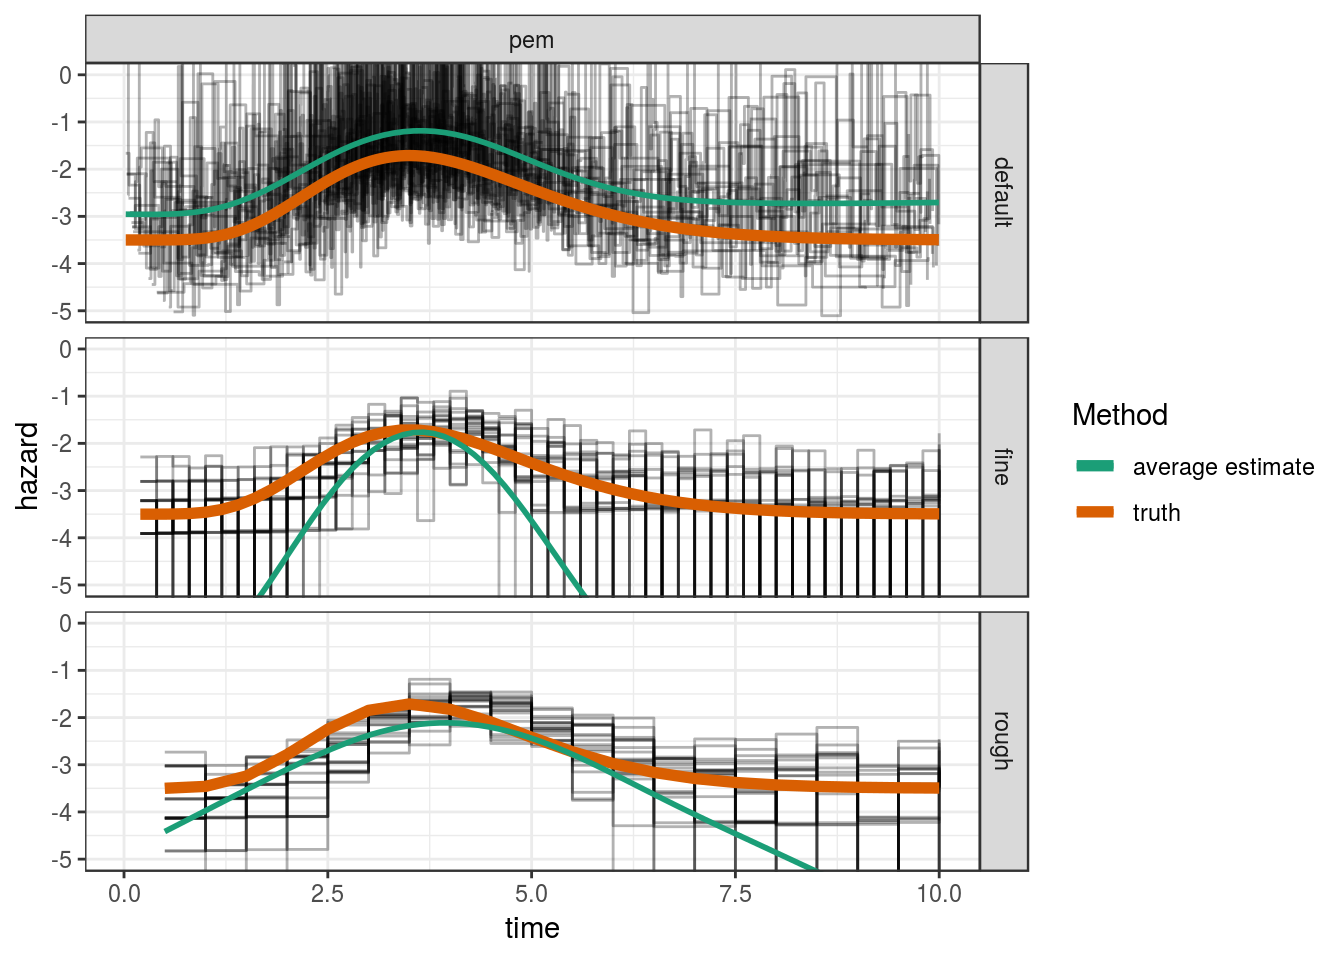
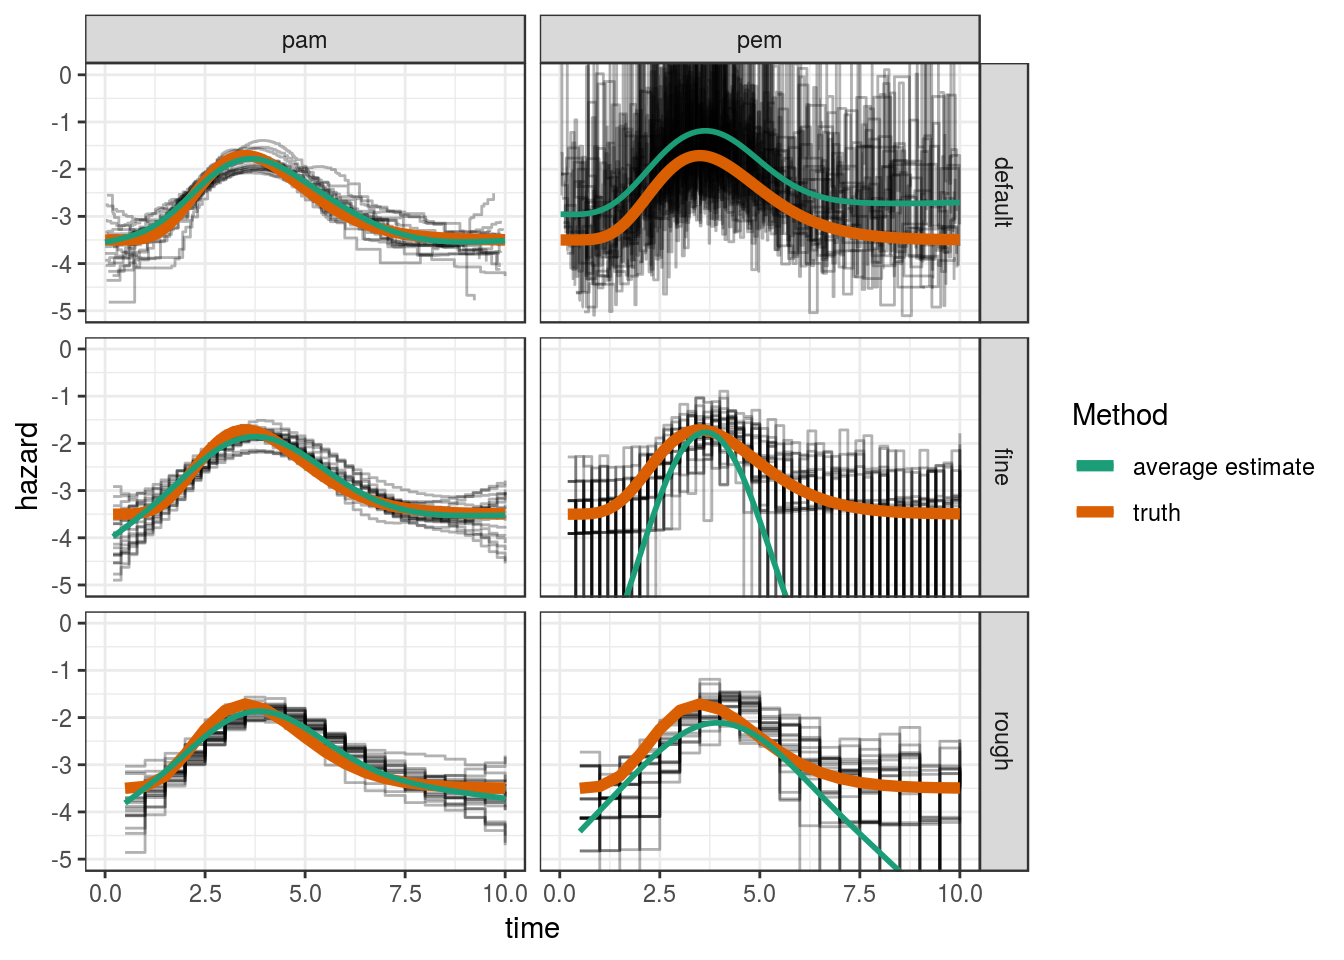
Build site.

Changed region(s): [[0.0625, 0.0, 0.7188, 0.9375], [0.2812, 0.9062, 0.3125, 0.9375], [0.0625, 0.9062, 0.0938, 0.9375]]

diff --git a/docs/pem_vs_pam.html b/docs/pem_vs_pam.html
@@ -187,6 +187,9 @@ $(document).ready(function () {
 <li>
   <a href="license.html">License</a>
 </li>
+<li>
+  <a href="pem_vs_pam.html">Articles</a>
+</li>
       </ul>
       <ul class="nav navbar-nav navbar-right">
         <li>
@@ -216,7 +219,7 @@ div.section {
 </div>
 
 
-<p><strong>Last updated:</strong> 2018-05-22</p>
+<p><strong>Last updated:</strong> 2018-05-23</p>
 <strong>workflowr checks:</strong> <small>(Click a bullet for more information)</small>
 <ul>
 <li>
@@ -245,11 +248,10 @@ div.section {
 </li>
 <li>
 <details>
-<p><summary> <strong style="color:blue;">✔</strong> <strong>Repository version:</strong> 870faf5 </summary></p>
+<p><summary> <strong style="color:blue;">✔</strong> <strong>Repository version:</strong> 4ddf7b2 </summary></p>
 Great! You are using Git for version control. Tracking code development and connecting the code version to the results is critical for reproducibility. The version displayed above was the version of the Git repository at the time these results were generated. <br><br> Note that you need to be careful to ensure that all relevant files for the analysis have been committed to Git prior to generating the results (you can use <code>wflow_publish</code> or <code>wflow_git_commit</code>). workflowr only checks the R Markdown file, but you know if there are other scripts or data files that it depends on. Below is the status of the Git repository when the results were generated:
 <pre><code>
 Ignored files:
-    Ignored:    analysis/ll_selection_cache/
     Ignored:    analysis/pem_vs_pam_cache/
 
 Untracked files:
@@ -260,6 +262,7 @@ Untracked files:
 Unstaged changes:
     Modified:   analysis/_site.yml
     Modified:   analysis/about.Rmd
+    Modified:   analysis/index.Rmd
 
 </code></pre>
 Note that any generated files, e.g. HTML, png, CSS, etc., are not included in this status report because it is ok for generated content to have uncommitted changes.
@@ -290,6 +293,40 @@ Message
 </tr>
 </thead>
 <tbody>
+<tr>
+<td style="text-align:left;">
+Rmd
+</td>
+<td style="text-align:left;">
+4ddf7b2
+</td>
+<td style="text-align:left;">
+adibender
+</td>
+<td style="text-align:left;">
+2018-05-23
+</td>
+<td style="text-align:left;">
+wflow_publish(“analysis/pem_vs_pam.Rmd”)
+</td>
+</tr>
+<tr>
+<td style="text-align:left;">
+html
+</td>
+<td style="text-align:left;">
+da628e9
+</td>
+<td style="text-align:left;">
+adibender
+</td>
+<td style="text-align:left;">
+2018-05-22
+</td>
+<td style="text-align:left;">
+Build site.
+</td>
+</tr>
 <tr>
 <td style="text-align:left;">
 Rmd
@@ -417,6 +454,24 @@ wflow_publish(c(“analysis/pem_vs_pam.Rmd”))
 <pre class="r"><code>library(ggplot2)
 theme_set(theme_bw())
 library(batchtools)</code></pre>
+<div id="motivation" class="section level2">
+<h2>Motivation</h2>
+<p>This is a light-weight simulation study to investigate how sensitive the different approaches (PEM vs. PAM) to the estimation of the baseline-hazard function are to the placement of the interval split points.</p>
+</div>
+<div id="setup" class="section level2">
+<h2>Setup</h2>
+<p>The setup is as follows:</p>
+<ul>
+<li><p><span class="math inline">\(n=250\)</span> survival times are simulated from a distribution with log-hazard <span class="math inline">\(-3.5 + f(8,2)*6\)</span>, where <span class="math inline">\(f(8,2)\)</span> is the density function of the Gamma distribution with respective parameters.</p></li>
+<li><p>The baseline hazard is estimated by a PEM and PAM respectively</p></li>
+<li><p>Three different settings are used for the interval split point definition</p>
+<ol style="list-style-type: decimal">
+<li>“default”: Unique event times from each simulated data set is used</li>
+<li>“fine”: A fine, equidistant grid with interval lengths <span class="math inline">\(0.2\)</span></li>
+<li>“rough”: A rough, equidistant grid with interval lengths <span class="math inline">\(0.5\)</span></li>
+</ol></li>
+<li><p>For each setting, 20 replications are run</p></li>
+</ul>
 <p>Function for data simulation (using <code>pammtools::sim_pexp</code>):</p>
 <pre class="r"><code>## simulation function
 sim_wrapper &lt;- function(data, job, n = 250, time_grid = seq(0, 10, by = 0.05)) {
@@ -457,7 +512,7 @@ pam_wrapper &lt;- function(data, job, instance,
     form     &lt;- ped_status ~ interval
     time_var &lt;- &quot;interval&quot;
   } else {
-    form     &lt;- ped_status ~ s(tend, bs = bs,k = k)
+    form     &lt;- ped_status ~ s(tend, bs = bs, k = 10)
     time_var &lt;- &quot;tend&quot;
   }
 
@@ -469,6 +524,9 @@ pam_wrapper &lt;- function(data, job, instance,
     mutate(truth = -3.5 + dgamma(tend, 8, 2) * 6)
 
 }</code></pre>
+</div>
+<div id="setup-simulation-registry" class="section level2">
+<h2>Setup simulation registry</h2>
 <p>Setup simulation using <code>batchtools</code>:</p>
 <pre class="r"><code>if(!checkmate::test_directory_exists(&quot;output/sim-pem-vs-pam-registry&quot;)) {
   reg &lt;- makeExperimentRegistry(&quot;output/sim-pem-vs-pam-registry&quot;,
@@ -488,142 +546,20 @@ pam_wrapper &lt;- function(data, job, instance,
 }</code></pre>
 <pre><code>Warning: replacing previous import &#39;dplyr::vars&#39; by &#39;ggplot2::vars&#39; when
 loading &#39;pammtools&#39;</code></pre>
-<pre><code>[1] FALSE</code></pre>
-<p>Evaluate Simulation:</p>
-<pre class="r"><code>reg     &lt;- loadRegistry(&quot;output/sim-pem-vs-pam-registry&quot;, writeable = TRUE)</code></pre>
-<pre><code>Warning: replacing previous import &#39;dplyr::vars&#39; by &#39;ggplot2::vars&#39; when
-loading &#39;pammtools&#39;</code></pre>
-<pre class="r"><code>ids_pam &lt;- findExperiments(prob.name=&quot;pem-vs-pam&quot;, algo.name=&quot;pem-vs-pam&quot;)
+<pre><code>[1] TRUE</code></pre>
+</div>
+<div id="evaluate-simulation" class="section level2">
+<h2>Evaluate Simulation</h2>
+<pre class="r"><code>reg     &lt;- loadRegistry(&quot;output/sim-pem-vs-pam-registry&quot;, writeable = TRUE)
+ids_pam &lt;- findExperiments(prob.name=&quot;pem-vs-pam&quot;, algo.name=&quot;pem-vs-pam&quot;)
 pars    &lt;- unwrap(getJobPars()) %&gt;% as_tibble()
 res     &lt;- reduceResultsDataTable(ids=findDone(ids_pam)) %&gt;%
   as_tibble() %&gt;%
   tidyr::unnest() %&gt;%
   left_join(pars) %&gt;%
-  mutate(cut = case_when(is.na(cut) ~ &quot;default&quot;, TRUE ~ cut))</code></pre>
-<pre><code>Warning in bind_rows_(x, .id): Unequal factor levels: coercing to character</code></pre>
-<pre><code>Warning in bind_rows_(x, .id): binding character and factor vector,
-coercing into character vector
+  mutate(cut = case_when(is.na(cut) ~ &quot;default&quot;, TRUE ~ cut))
 
-Warning in bind_rows_(x, .id): binding character and factor vector,
-coercing into character vector
-
-Warning in bind_rows_(x, .id): binding character and factor vector,
-coercing into character vector
-
-Warning in bind_rows_(x, .id): binding character and factor vector,
-coercing into character vector
-
-Warning in bind_rows_(x, .id): binding character and factor vector,
-coercing into character vector
-
-Warning in bind_rows_(x, .id): binding character and factor vector,
-coercing into character vector
-
-Warning in bind_rows_(x, .id): binding character and factor vector,
-coercing into character vector
-
-Warning in bind_rows_(x, .id): binding character and factor vector,
-coercing into character vector
-
-Warning in bind_rows_(x, .id): binding character and factor vector,
-coercing into character vector
-
-Warning in bind_rows_(x, .id): binding character and factor vector,
-coercing into character vector
-
-Warning in bind_rows_(x, .id): binding character and factor vector,
-coercing into character vector
-
-Warning in bind_rows_(x, .id): binding character and factor vector,
-coercing into character vector
-
-Warning in bind_rows_(x, .id): binding character and factor vector,
-coercing into character vector
-
-Warning in bind_rows_(x, .id): binding character and factor vector,
-coercing into character vector
-
-Warning in bind_rows_(x, .id): binding character and factor vector,
-coercing into character vector
-
-Warning in bind_rows_(x, .id): binding character and factor vector,
-coercing into character vector
-
-Warning in bind_rows_(x, .id): binding character and factor vector,
-coercing into character vector
-
-Warning in bind_rows_(x, .id): binding character and factor vector,
-coercing into character vector
-
-Warning in bind_rows_(x, .id): binding character and factor vector,
-coercing into character vector
-
-Warning in bind_rows_(x, .id): binding character and factor vector,
-coercing into character vector
-
-Warning in bind_rows_(x, .id): binding character and factor vector,
-coercing into character vector
-
-Warning in bind_rows_(x, .id): binding character and factor vector,
-coercing into character vector
-
-Warning in bind_rows_(x, .id): binding character and factor vector,
-coercing into character vector
-
-Warning in bind_rows_(x, .id): binding character and factor vector,
-coercing into character vector
-
-Warning in bind_rows_(x, .id): binding character and factor vector,
-coercing into character vector
-
-Warning in bind_rows_(x, .id): binding character and factor vector,
-coercing into character vector
-
-Warning in bind_rows_(x, .id): binding character and factor vector,
-coercing into character vector
-
-Warning in bind_rows_(x, .id): binding character and factor vector,
-coercing into character vector
-
-Warning in bind_rows_(x, .id): binding character and factor vector,
-coercing into character vector
-
-Warning in bind_rows_(x, .id): binding character and factor vector,
-coercing into character vector
-
-Warning in bind_rows_(x, .id): binding character and factor vector,
-coercing into character vector
-
-Warning in bind_rows_(x, .id): binding character and factor vector,
-coercing into character vector
-
-Warning in bind_rows_(x, .id): binding character and factor vector,
-coercing into character vector
-
-Warning in bind_rows_(x, .id): binding character and factor vector,
-coercing into character vector
-
-Warning in bind_rows_(x, .id): binding character and factor vector,
-coercing into character vector
-
-Warning in bind_rows_(x, .id): binding character and factor vector,
-coercing into character vector
-
-Warning in bind_rows_(x, .id): binding character and factor vector,
-coercing into character vector
-
-Warning in bind_rows_(x, .id): binding character and factor vector,
-coercing into character vector
-
-Warning in bind_rows_(x, .id): binding character and factor vector,
-coercing into character vector
-
-Warning in bind_rows_(x, .id): binding character and factor vector,
-coercing into character vector
-
-Warning in bind_rows_(x, .id): binding character and factor vector,
-coercing into character vector</code></pre>
-<pre class="r"><code>res %&gt;%
+res %&gt;%
   mutate(
     sq_error = (truth - hazard)^2,
     covered = (truth &gt;= ci_lower) &amp; (truth &lt;= ci_upper)) %&gt;%
@@ -635,13 +571,19 @@ coercing into character vector</code></pre>
   summarize(
     RMSE     = mean(RMSE),
     coverage = mean(coverage))</code></pre>
-<pre><code># A tibble: 3 x 4
+<pre><code># A tibble: 6 x 4
 # Groups:   mod_type [?]
   mod_type cut      RMSE coverage
   &lt;chr&gt;    &lt;chr&gt;   &lt;dbl&gt;    &lt;dbl&gt;
-1 pem      default  1.38    0.870
-2 pem      fine     6.84    0.966
-3 pem      rough    3.02    0.920</code></pre>
+1 pam      default 0.223    0.881
+2 pam      fine    0.268    0.916
+3 pam      rough   0.281    0.920
+4 pem      default 1.38     0.870
+5 pem      fine    6.84     0.966
+6 pem      rough   3.02     0.920</code></pre>
+</div>
+<div id="visualize-estimations" class="section level2">
+<h2>Visualize Estimations</h2>
 <pre class="r"><code>ggplot(res, aes(x=tend, y = hazard)) +
   geom_step(aes(group = job.id), alpha = 0.3) +
   geom_line(aes(y = truth, col = &quot;truth&quot;), lwd = 2) +
@@ -683,6 +625,14 @@ adibender
 </tbody>
 </table>
 </details>
+</div>
+<div id="conclusion" class="section level2">
+<h2>Conclusion</h2>
+<ul>
+<li><p>For the PAM, the RMSE has about the same magnitude for all three split point settings</p></li>
+<li><p>For the PEM, the RMSE is highly dependent on the RMSE, partly because even for the “rough” split point setting, in some simulations some intervals have no events and the hazard is estimated close to zero (very small log-hazard values) and for the “default” setting, where each interval contains at least one event, appears to overestimate the hazard on average</p></li>
+</ul>
+</div>
 <div id="session-information" class="section level2">
 <h2>Session information</h2>
 <pre class="r"><code>sessionInfo()</code></pre>
